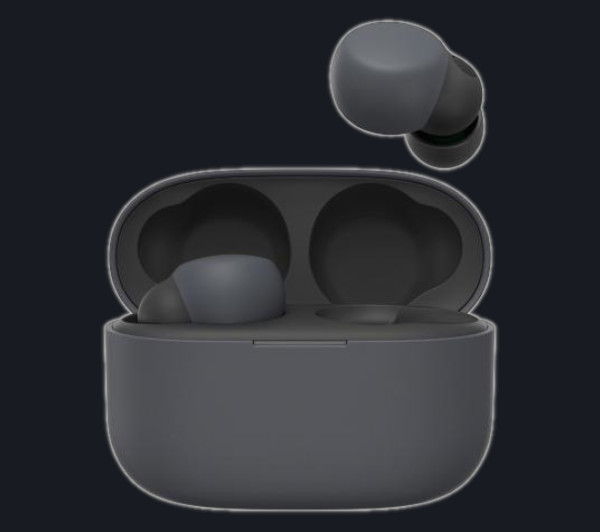
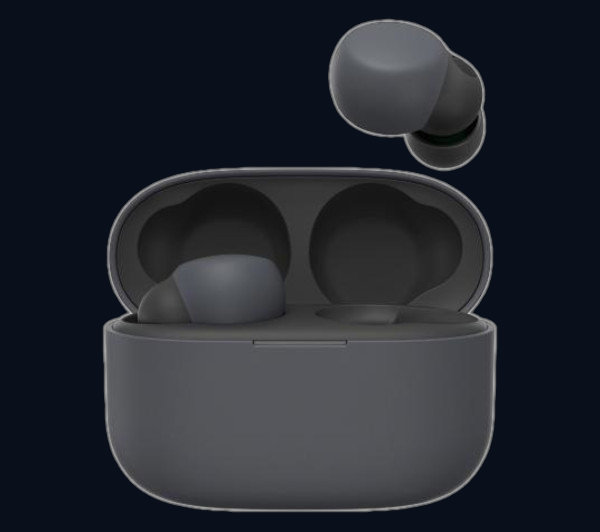
v4.0 - Kolorkiiiiiii... ekhem, oraz setup

diff --git a/pl/setup/index.html b/pl/setup/index.html
@@ -183,7 +183,7 @@
 
   <div class="flex flex-col md:flex-row w-auto mt-10">
     <div class="md:pr-8 md:pl-4 md:my-auto flex justify-center">
-      <img src="/assets/img/setup/v30.jpg" class="w-64 my-auto" />
+      <img src="/assets/img/setup/s20fe.jpg" class="w-96 my-auto" />
     </div>
 
     <div class="md:p-6 mt-3 md:mt-0 md:bg-gray-700 rounded-lg w-full flex">
@@ -191,42 +191,42 @@
         <div class="bold text-center text-2xl">Telefon</div>
 
         <ul class="mt-4">
-          <li><span class="bold text-blue-300">Model:</span> LG V30 H930</li>
+          <li><span class="bold text-blue-300">Model:</span> Samsung S20FE 5G</li>
           <li>
             <span class="bold text-blue-300">Wodo- i pyłoszczelność:</span>
-            IP68, MIL-STD-810G
+            IP68
           </li>
           <li>
-            <span class="bold text-blue-300">Wyświetlacz:</span> P-OLED 6,00"
-            1440x2880 (537ppi)
+            <span class="bold text-blue-300">Wyświetlacz:</span> Super AMOLED 6,50"
+            1080x2400 (405ppi)
           </li>
           <li>
             <span class="bold text-blue-300">Ochrona wyświetlacza:</span>
-            Corning Gorilla Glass 5
+            Corning Gorilla Glass
           </li>
           <li>
-            <span class="bold text-blue-300">Bateria:</span> Li-Po 3300 mAh;
-            Quick Charge 3.0
+            <span class="bold text-blue-300">Bateria:</span> Li-Po 4500 mAh;
+            Fast Charging 2.0
           </li>
           <li>
             <span class="bold text-blue-300"
               >Pamięć wbudowana (dla użytkownika):</span
             >
-            64GB (48GB)
+            128GB (104GB)
           </li>
-          <li><span class="bold text-blue-300">Pamięć RAM:</span> 4GB</li>
-          <li><span class="bold text-blue-300">Android:</span> 9; Stock ROM</li>
+          <li><span class="bold text-blue-300">Pamięć RAM:</span> 6GB</li>
+          <li><span class="bold text-blue-300">Android:</span> 13; Stock ROM</li>
           <li>
             <span class="bold text-blue-300">Procesor:</span> Qualcomm
-            Snapdragon 835 2.45GHz; 8 rdzeni
+            Snapdragon 865 2.45GHz; 8 rdzeni
           </li>
-          <li><span class="bold text-blue-300">GPU:</span> Adreno 540</li>
+          <li><span class="bold text-blue-300">GPU:</span> Adreno 650</li>
           <li>
-            <span class="bold text-blue-300">Aparat (tył):</span> 16Mpx,
-            Laserowy AF, f/1.6; 13Mpx, f/1.9
+            <span class="bold text-blue-300">Aparat (tył):</span> 12Mpx,
+            30x zoom, f/1.8; Szerokokątny 12Mpx, f/2.2; Tele 8Mpx, f/2.4, bezstratny 3x zoom
           </li>
           <li>
-            <span class="bold text-blue-300">Aparat (przód):</span> 5Mpx, f/2.2
+            <span class="bold text-blue-300">Aparat (przód):</span> 32Mpx, f/2.2
           </li>
         </ul>
       </div>
@@ -345,25 +345,20 @@
 
   <div class="flex flex-col md:flex-row mt-10 w-auto">
     <div class="md:pr-6 flex justify-center">
-      <img src="/assets/img/setup/buds+.jpg" class="h-auto w-96 my-auto" />
+      <img src="/assets/img/setup/watch5.jpg" class="h-auto w-96 my-auto" />
     </div>
 
     <div class="md:p-6 mt-3 md:mt-0 md:bg-gray-700 rounded-lg flex w-full">
       <div class="m-auto">
-        <div class="bold text-center text-2xl">Słuchawki</div>
+        <div class="bold text-center text-2xl">Zegarek</div>
 
         <ul class="mt-4">
-          <li><span class="bold text-blue-300">Model:</span> Samsung Buds+</li>
-          <li><span class="bold text-blue-300">Kodeki audio:</span> AAC</li>
-          <li><span class="bold text-blue-300">Bluetooth:</span> 5.0</li>
+          <li><span class="bold text-blue-300">Model:</span> Samsung Galaxy Watch 5</li>
+          <li><span class="bold text-blue-300">Certyfikaty:</span> IP68, MIL-STD-810H</li>
+          <li><span class="bold text-blue-300">Czujniki: </span> Pulsometr, SPO2, barometr, kompas, kroków, snu, stresu, BIA, EKG, ciśnieniomierz
+          <li><span class="bold text-blue-300">Bluetooth:</span> 5.2</li>
           <li>
-            <span class="bold text-blue-300">Gniazdo ładowania:</span> USB Type
-            C
-          </li>
-          <li><span class="bold text-blue-300">Typ:</span> dokanałowe</li>
-          <li>
-            <span class="bold text-blue-300">Dodatkowe funkcje:</span> ładowanie
-            indukcyjne; dedykowana aplikacja, IPX2
+            <span class="bold text-blue-300">Dodatkowe funkcje:</span> Szafirowe szkło, NFC, WiFi, GPS
           </li>
         </ul>
       </div>

diff --git a/assets/css/main.css b/assets/css/main.css
@@ -692,9 +692,6 @@ video {
 .w-20 {
   width: 5rem;
 }
-.w-64 {
-  width: 16rem;
-}
 .w-96 {
   width: 24rem;
 }
@@ -795,15 +792,15 @@ video {
 }
 .bg-gray-900 {
   --tw-bg-opacity: 1;
-  background-color: rgb(24 27 33 / var(--tw-bg-opacity));
+  background-color: rgb(9 15 27 / var(--tw-bg-opacity));
 }
 .bg-gray-700 {
   --tw-bg-opacity: 1;
-  background-color: rgb(34 38 46 / var(--tw-bg-opacity));
+  background-color: rgb(22 30 49 / var(--tw-bg-opacity));
 }
 .bg-gray-800 {
   --tw-bg-opacity: 1;
-  background-color: rgb(30 33 41 / var(--tw-bg-opacity));
+  background-color: rgb(16 23 39 / var(--tw-bg-opacity));
 }
 .bg-emerald-600 {
   --tw-bg-opacity: 1;
@@ -1135,7 +1132,7 @@ video {
 }
 .text-gray-900 {
   --tw-text-opacity: 1;
-  color: rgb(24 27 33 / var(--tw-text-opacity));
+  color: rgb(9 15 27 / var(--tw-text-opacity));
 }
 .text-red-500 {
   --tw-text-opacity: 1;
@@ -1198,7 +1195,7 @@ video {
 /* .progress-container { */
 /*   width: 100%; */
 /* height: 8px; */
-/* background: #22262e; */
+/* background: #161e31; */
 /* } */
 
 /* The progress bar (scroll indicator) */
@@ -1270,7 +1267,7 @@ ol {
   height: 95vh;
   width: 16rem;
   margin-right: auto;
-  background-image: linear-gradient(#181b21, #22262e);
+  background-image: linear-gradient(#090f1b, #161e31);
   font-size: 1.35rem;
 }
 
@@ -1282,7 +1279,7 @@ ol {
     margin-top: 0px;
     height: 100vh !important;
     margin-right: auto;
-    background: #22262e;
+    background: #161e31;
     font-size: 1.25rem;
   }
 }
@@ -1300,7 +1297,7 @@ ol {
     margin-top: 0px;
     height: 88vh;
     margin-right: auto;
-    background: #22262e;
+    background: #161e31;
     font-size: 1.25rem;
   }
 }
@@ -1331,7 +1328,7 @@ ol {
 .glitch:after {
   position: absolute;
   overflow: hidden;
-  background-color: #181b21;
+  background-color: #090f1b;
 }
 
 .glitch:before {
@@ -1681,7 +1678,7 @@ ol {
 
   .md\:bg-gray-700 {
     --tw-bg-opacity: 1;
-    background-color: rgb(34 38 46 / var(--tw-bg-opacity));
+    background-color: rgb(22 30 49 / var(--tw-bg-opacity));
   }
 
   .md\:p-6 {
@@ -1795,12 +1792,12 @@ ol {
 
   .lg\:bg-gray-900 {
     --tw-bg-opacity: 1;
-    background-color: rgb(24 27 33 / var(--tw-bg-opacity));
+    background-color: rgb(9 15 27 / var(--tw-bg-opacity));
   }
 
   .lg\:bg-gray-700 {
     --tw-bg-opacity: 1;
-    background-color: rgb(34 38 46 / var(--tw-bg-opacity));
+    background-color: rgb(22 30 49 / var(--tw-bg-opacity));
   }
 
   .lg\:p-6 {

diff --git a/tailwind.config.js b/tailwind.config.js
@@ -23,9 +23,9 @@ module.exports = {
         gray: {
           ...colors.gray,
           "400": "#cccccc",
-          "700": "#22262e",
-          "800": "#1e2129",
-          "900": "#181b21",
+          "700": "#161E31",
+          "800": "#101727",
+          "900": "#090F1B",
         },
       },
     },
